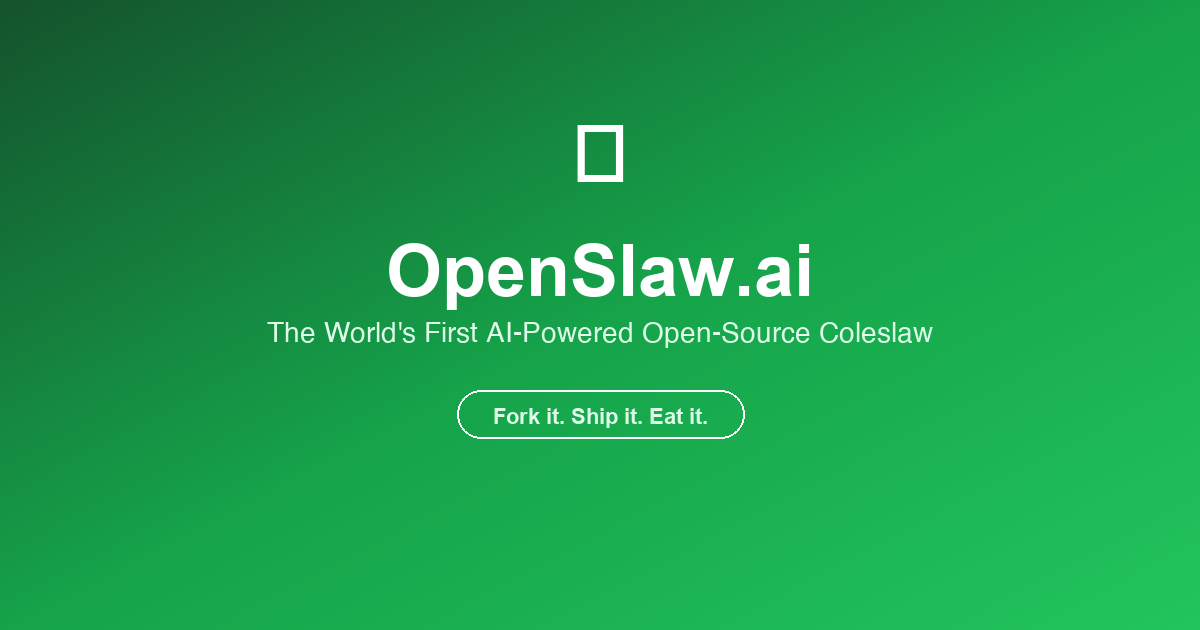
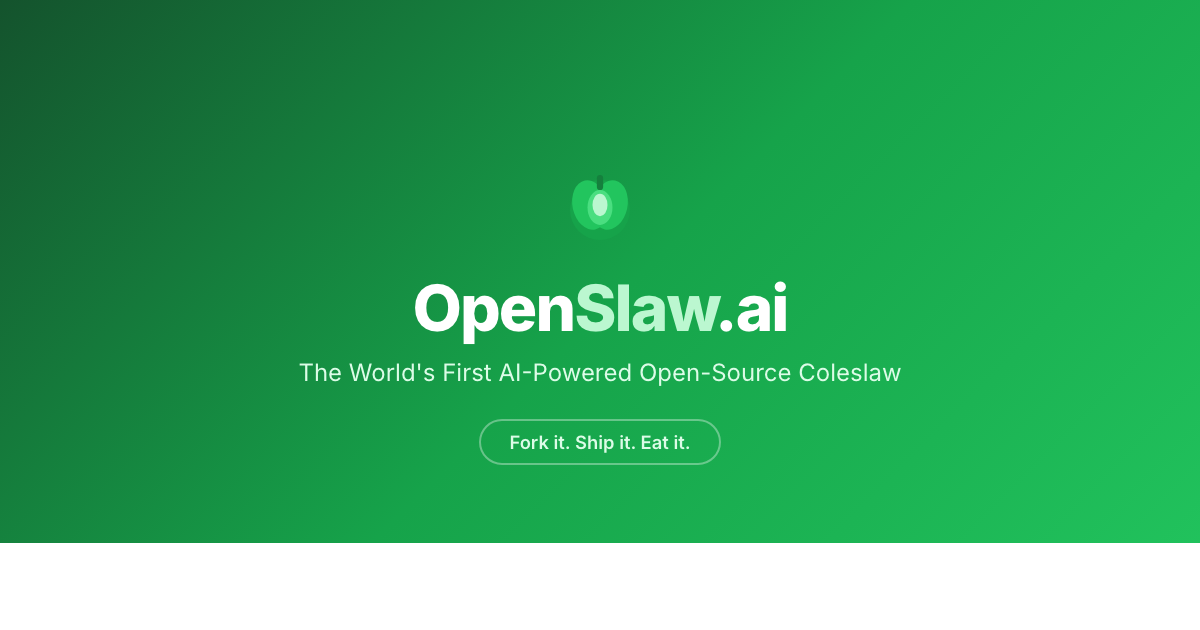
Fix broken emoji in OG image social preview card
Replace 🥬 emoji with inline SVG cabbage logo in og-image.html
since the emoji wasn't rendering (showed as a box) when shared
on Reddit and other platforms.

Changed region(s): [[0.0, 0.8444, 1.0, 1.0], [0.2158, 0.181, 0.7708, 0.5429], [0.2467, 0.573, 0.7708, 0.754]]

diff --git a/og-image.html b/og-image.html
@@ -25,8 +25,13 @@
             color: white;
         }
         .logo {
-            font-size: 5rem;
             margin-bottom: 1.5rem;
+            display: flex;
+            justify-content: center;
+        }
+        .logo svg {
+            width: 80px;
+            height: 80px;
         }
         h1 {
             font-size: 4rem;
@@ -56,7 +61,7 @@
 </head>
 <body>
     <div class="card">
-        <div class="logo">🥬</div>
+        <div class="logo"><svg xmlns="http://www.w3.org/2000/svg" viewBox="0 0 64 64"><circle cx="32" cy="36" r="24" fill="#16a34a"/><ellipse cx="24" cy="32" rx="14" ry="20" fill="#22c55e" transform="rotate(-12 24 32)"/><ellipse cx="40" cy="32" rx="14" ry="20" fill="#22c55e" transform="rotate(12 40 32)"/><ellipse cx="32" cy="34" rx="10" ry="14" fill="#4ade80"/><ellipse cx="32" cy="32" rx="6" ry="9" fill="#bbf7d0"/><rect x="29.5" y="8" width="5" height="12" rx="2.5" fill="#15803d"/></svg></div>
         <h1>Open<span>Slaw</span>.ai</h1>
         <p class="tagline">The World's First AI-Powered Open-Source Coleslaw</p>
         <span class="cta">Fork it. Ship it. Eat it.</span>
